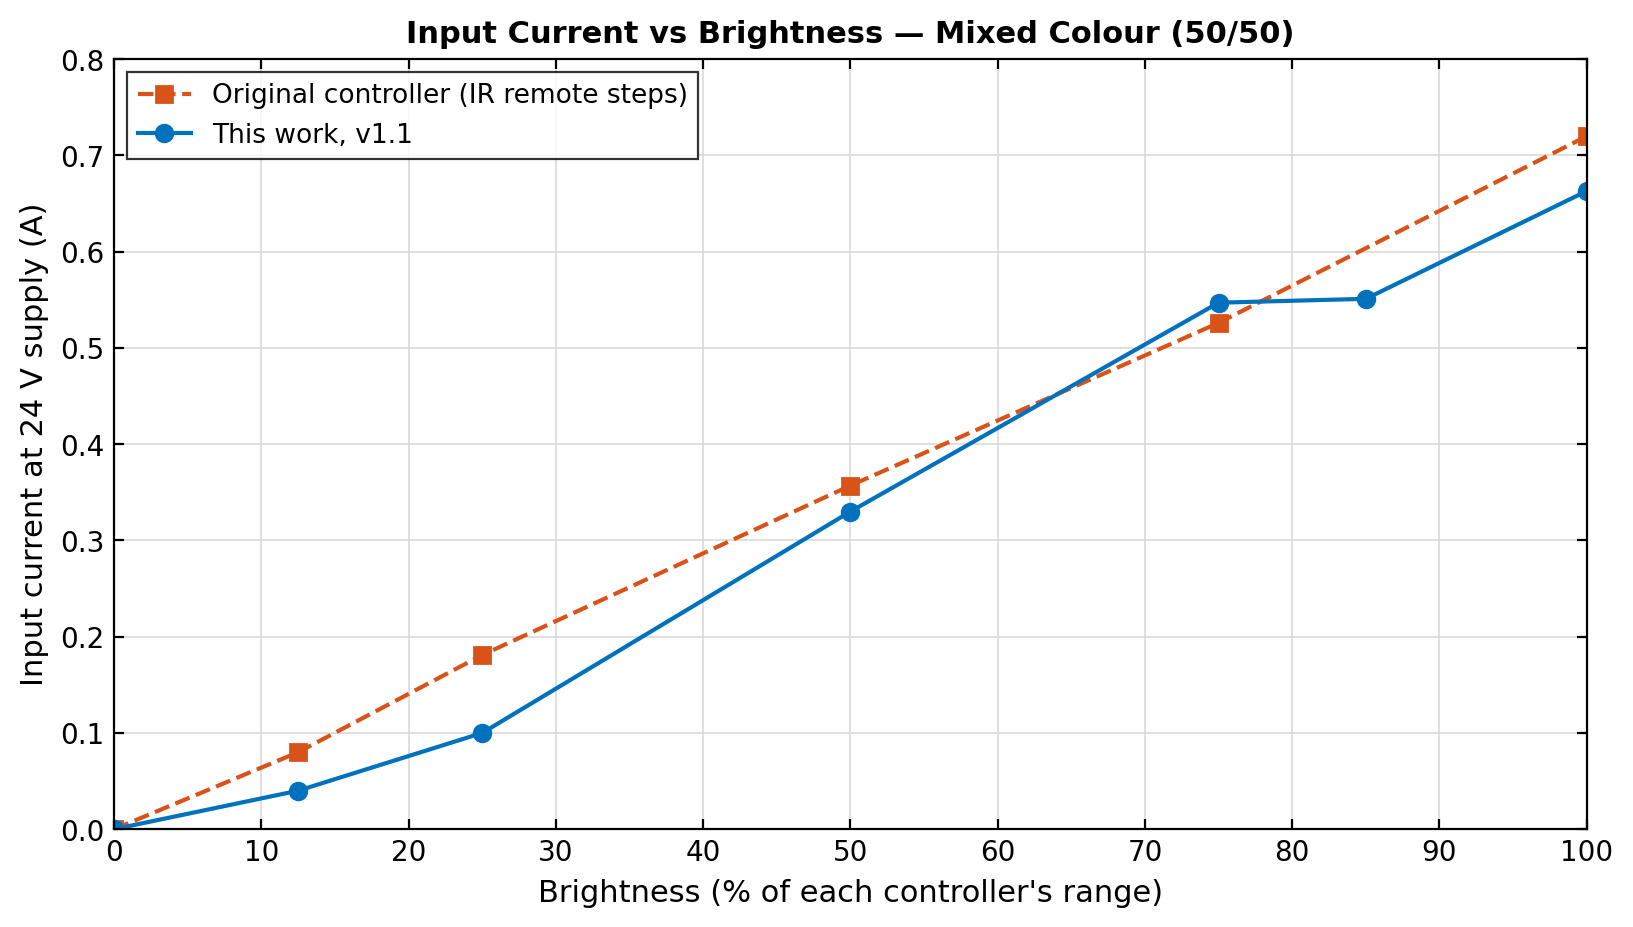
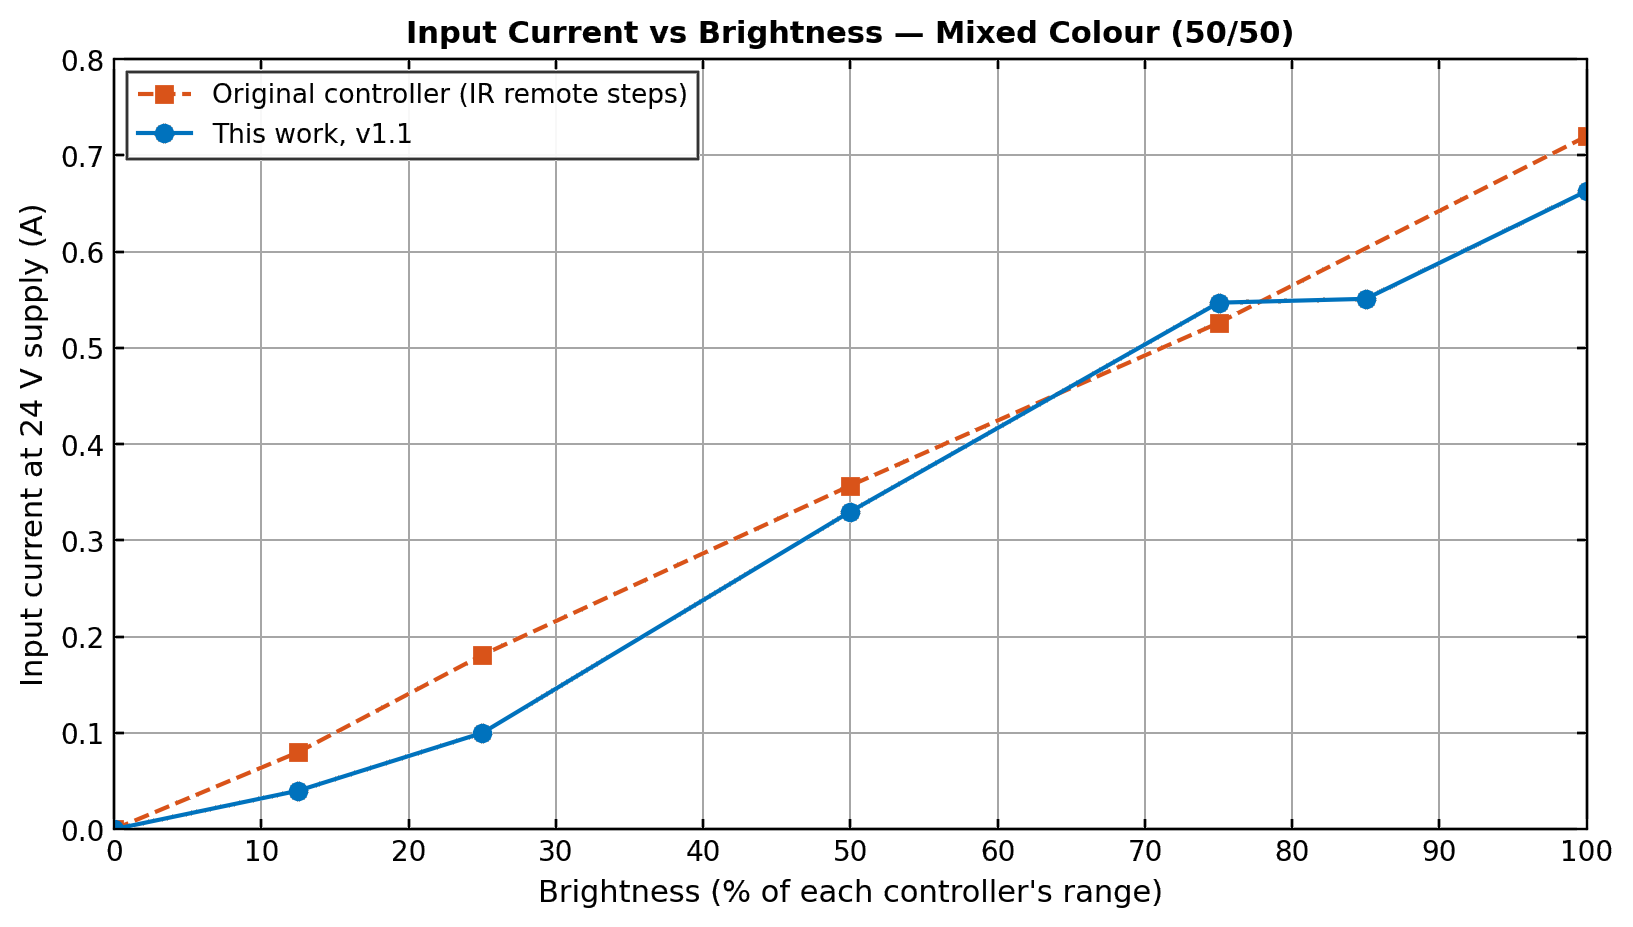
darker grid on the current plot

diff --git a/README.md b/README.md
@@ -162,7 +162,7 @@ The scope tells the same story electrically. Here is the v1.1 output with its FF
 And the silence doesn't cost anything at the input. Input current from the 24 V supply at matched brightness steps, complete systems powered, same supply and strip: v1.1 tracks the original across the range. The small differences at the low end come down to each controller mapping duty over its own brightness range.
 
 <p align="center">
-  <img src="media/IMAGES/current_vs_brightness_matlab.png" width="850" alt="Input current vs brightness, original controller vs v1.1, near identical curves">
+  <img src="media/IMAGES/current_vs_brightness_matlab.png" width="700" alt="Input current vs brightness, original controller vs v1.1, near identical curves">
 </p>
 
 <!-- TODO: BLE demo gif/clip -->
